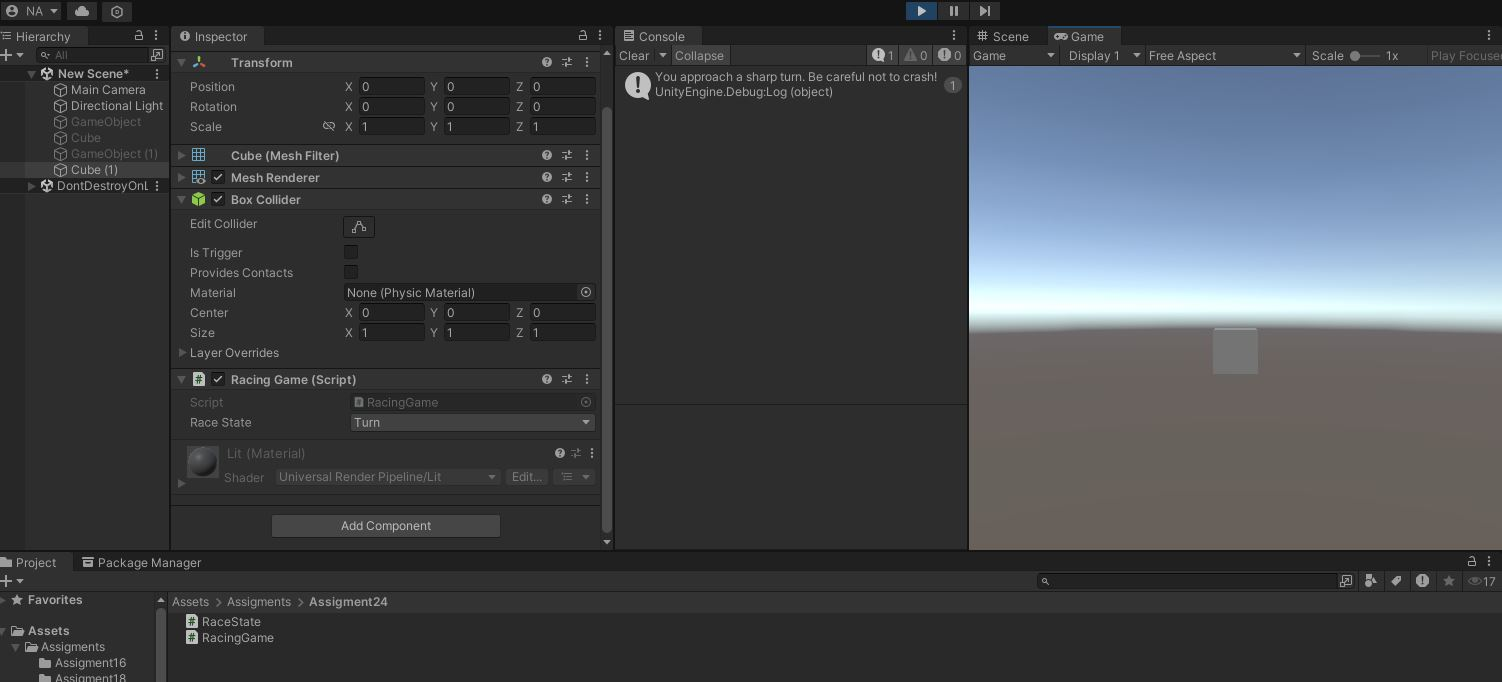
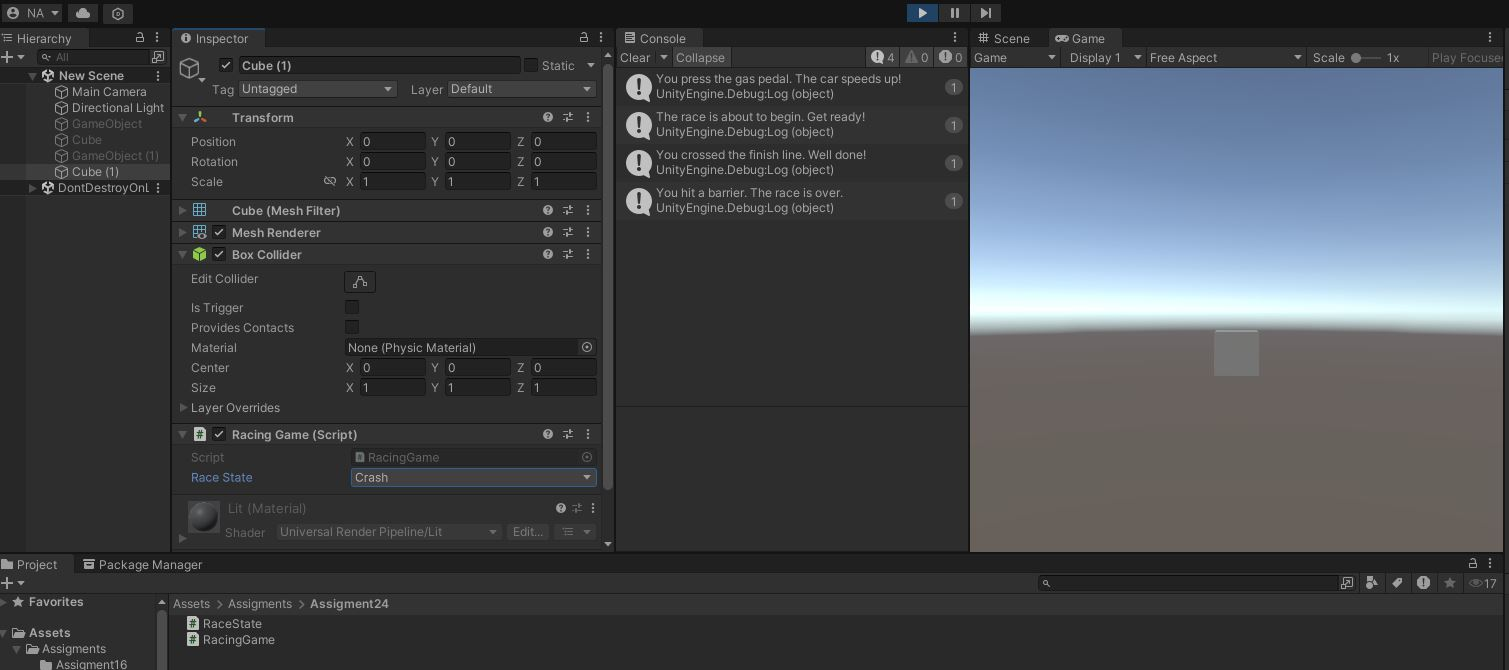
Assigment24

diff --git a/Assets/Assigments/Assigment24/RacingGame.cs b/Assets/Assigments/Assigment24/RacingGame.cs
@@ -7,10 +7,15 @@ namespace Assigment24
     public class RacingGame : MonoBehaviour
     {
         public RaceState raceState;
+        private RaceState oldValue;
 
-
+        private void Start()
+        {
+            oldValue = raceState;
+        }
         public void SimulateRace()
         {
+
 
 
             switch (raceState)
@@ -42,9 +47,15 @@ namespace Assigment24
             }
         }
         // Start is called before the first frame update
-        void Start()
+        void Update()
         {
-            SimulateRace();
+
+            if (oldValue != raceState)
+            {
+                SimulateRace();
+                oldValue = raceState;
+            }
+
         }
 
         // Update is called once per frame
